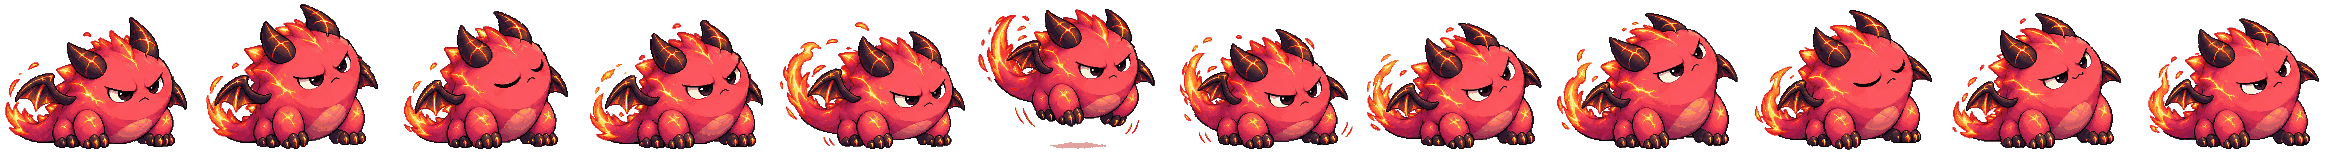
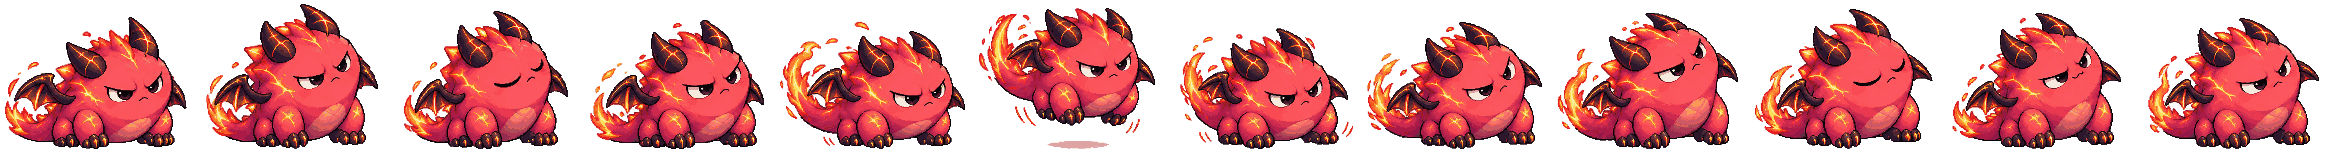
Rebuild the Blazewyrm cut: restore the eye, clear the last fringe
Two defects, one of them mine.

The right eye had lost most of its sclera. My test for "is this enclosed
near-white region checkerboard or a highlight?" split a region at an arbitrary
brightness and called anything spanning it background. A smoothly shaded cream
sclera spans that trivially, so it was deleted along with the wing patches. The
source has both eyes equally white; this was damage, not the artwork.

The real difference is colour, not brightness: the checkerboard is exactly
neutral, two tones of 254 and 237 with R=G=B, while every highlight in this art
is warm - the sclera runs R-B of about 24, the flame cores more. Enclosed
regions are now judged on median saturation and how many warm pixels they hold,
which separates them cleanly: the checkerboard patches sit at saturation 1-4
with under 7% warm pixels, the one genuine highlight at 37%.

The edge pass gains the same guard - it may never erode a warm pixel - so no
amount of erosion can reach cream again regardless of what opens beside it. It
now converges in four passes (6639, 128, 19, 2) rather than grinding on for
nine, and leaves zero neutral-pale pixels on the silhouette, measured. The 2,351
pale edge pixels that remain are warm: flame tips, which belong there.

Frames come out a pixel shorter at 194x153, so the sprite aspect goes to 1.268.
The ground line is now flat to 0 px across the loop.

Claude-Session: https://claude.ai/code/session_01YRzrKPfiP3SQKKej9Vjk7N

diff --git a/index.html b/index.html
@@ -2123,7 +2123,7 @@ const DEFAULT_SPRITES = {
   "ember:2": {
     src:"art/ember-blazewyrm.png",
     // 12-frame loop; frame 6 is a hop, its shadow keeping the ground line
-    frames:12, rows:1, fps:2, aspect:1.26, scale:1.2
+    frames:12, rows:1, fps:2, aspect:1.268, scale:1.2
   },
   "verdant:1": {
     src:"art/panda-cub.png",
